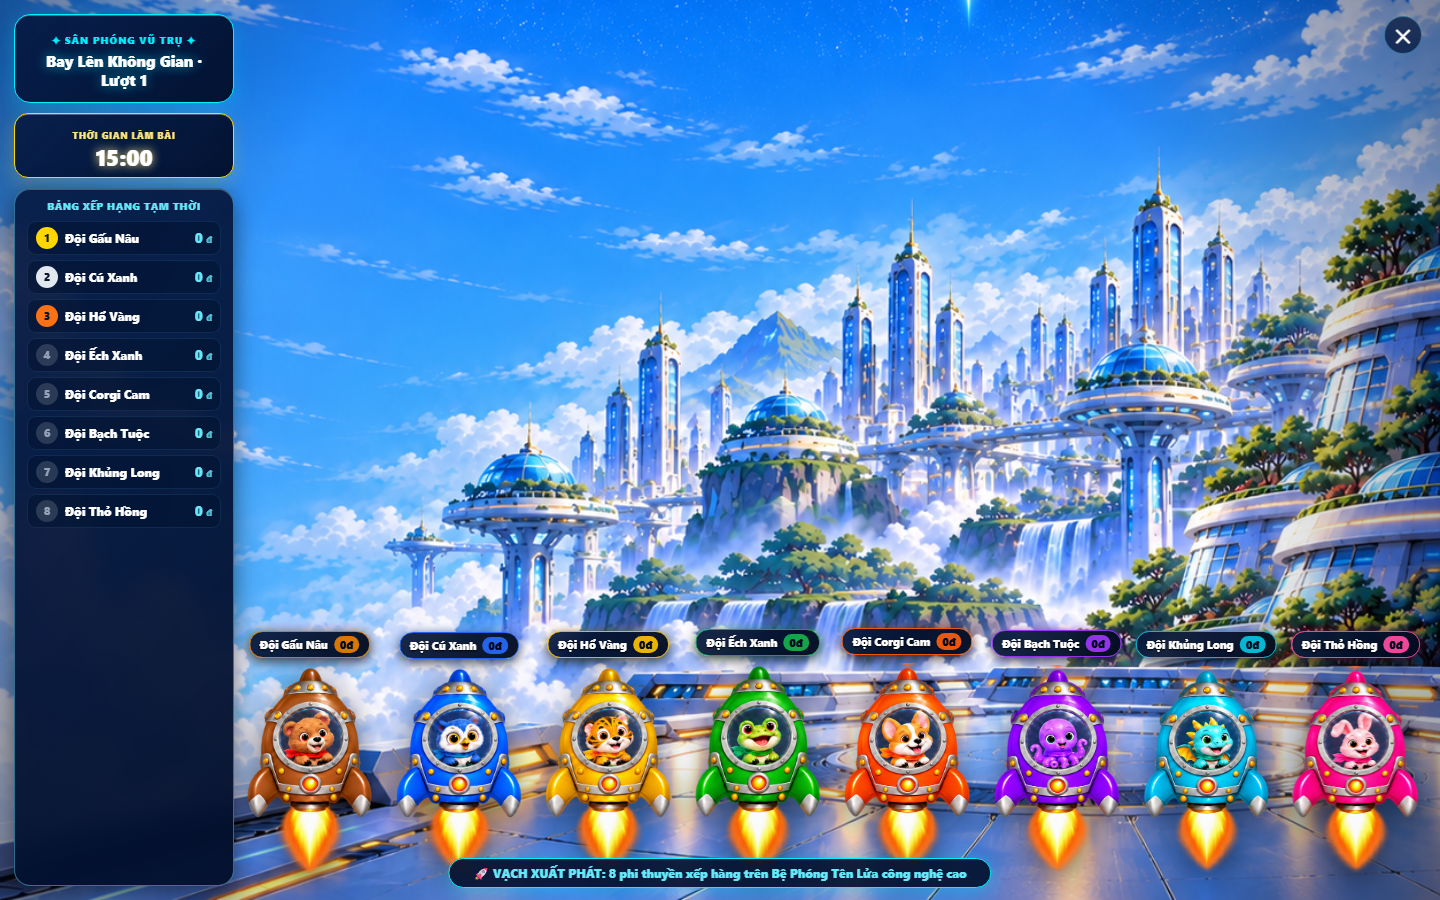
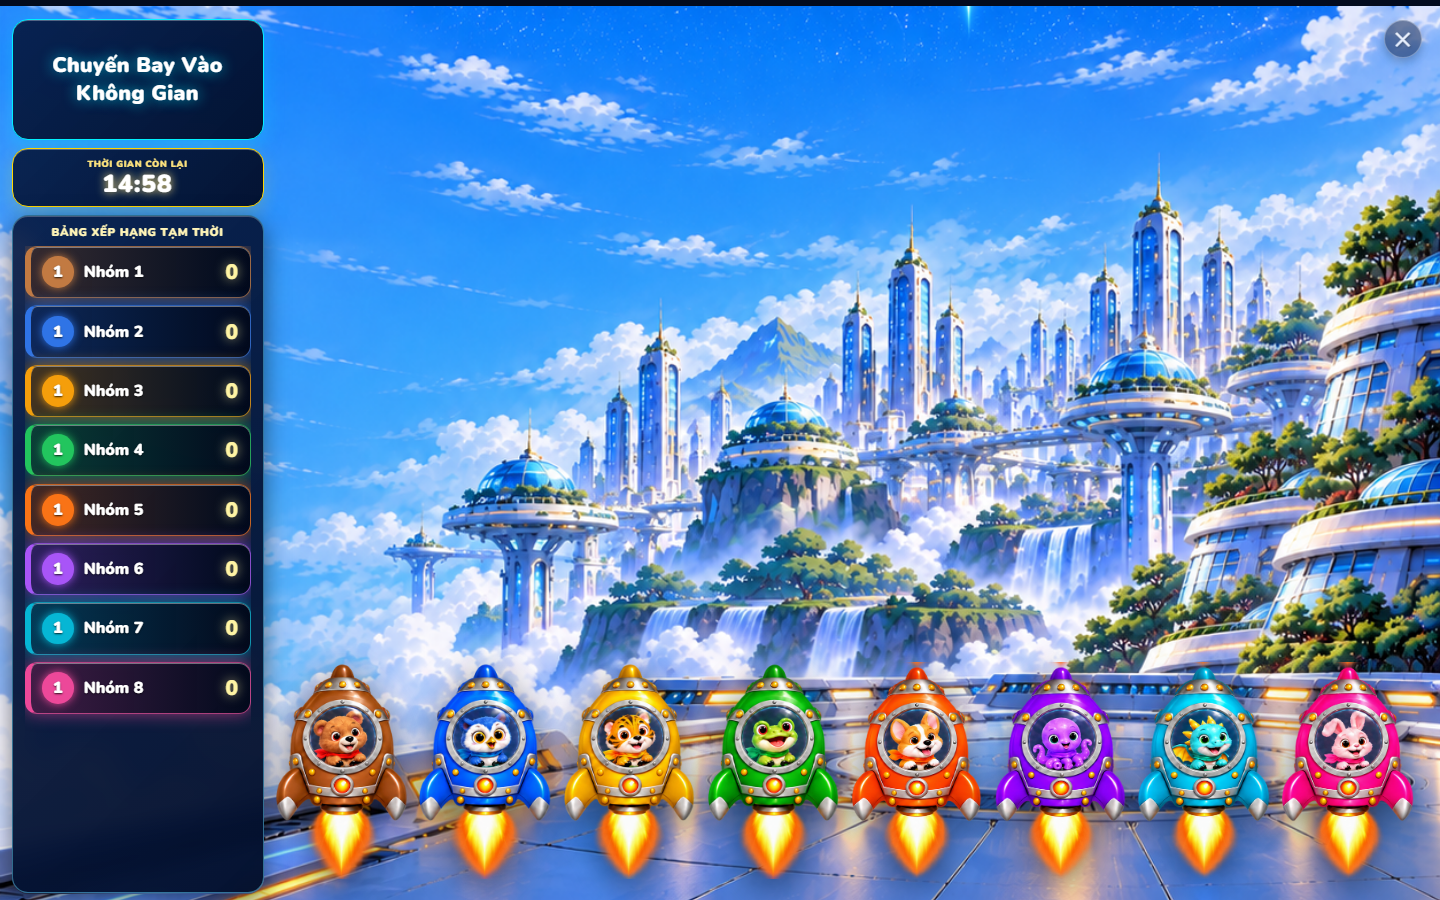
fix(team-competition): tinh chỉnh giao diện Bay Lên Không Gian (gấp đôi chiều cao khung tên & bảng tên, gán màu phi thuyền, bỏ phình to & bỏ ô tên đầu phi thuyền)

diff --git a/src/style.css b/src/style.css
@@ -7277,7 +7277,7 @@ input[type="text"], input[type="password"], select, textarea {
     top: clamp(10px, 1.4vh, 18px);
     bottom: clamp(10px, 1.4vh, 18px);
     left: clamp(8px, 0.8vw, 14px);
-    width: clamp(170px, 14.5vw, 225px);
+    width: clamp(210px, 17.5vw, 275px);
     z-index: 10;
     display: flex;
     flex-direction: column;
@@ -7307,13 +7307,13 @@ input[type="text"], input[type="password"], select, textarea {
     color: #fff;
 }
 
-/* HUD 1: Title Card with Neon Cyan Glow */
+/* HUD 1: Title Card with Neon Cyan Glow (Gấp đôi chiều cao) */
 #treasure-modal.team-board-fullscreen .team-competition-board--live .team-race-stadium--space-launch .team-stadium-title-card {
     display: flex;
     align-items: center;
     justify-content: center;
-    min-height: clamp(52px, 7vh, 68px);
-    padding: clamp(6px, 0.9vh, 10px) clamp(8px, 1vw, 14px);
+    min-height: clamp(104px, 13.5vh, 136px);
+    padding: clamp(10px, 1.4vh, 16px) clamp(10px, 1.1vw, 16px);
     border: 1.5px solid #00f0ff;
     box-shadow: 0 6px 20px rgba(0, 240, 255, 0.25), inset 0 1px 0 rgba(255, 255, 255, 0.3);
     text-align: center;
@@ -7321,11 +7321,11 @@ input[type="text"], input[type="password"], select, textarea {
 #treasure-modal.team-board-fullscreen .team-competition-board--live .team-race-stadium--space-launch .team-stadium-title-card h2 {
     margin: 0;
     color: #fff;
-    font-size: clamp(0.95rem, 1.25vw, 1.4rem);
+    font-size: clamp(1.1rem, 1.45vw, 1.6rem);
     font-weight: 900;
-    line-height: 1.25;
+    line-height: 1.35;
     text-align: center;
-    text-shadow: 0 0 12px rgba(0, 240, 255, 0.6);
+    text-shadow: 0 0 14px rgba(0, 240, 255, 0.7);
     letter-spacing: 0.02em;
     word-break: break-word;
 }
@@ -7358,7 +7358,7 @@ input[type="text"], input[type="password"], select, textarea {
     text-shadow: 0 0 10px #ffe57f;
 }
 
-/* HUD 3: Scoreboard */
+/* HUD 3: Scoreboard (Tăng chiều cao bảng tên lên gấp đôi & gán màu phi thuyền) */
 #treasure-modal.team-board-fullscreen .team-competition-board--live .team-race-stadium--space-launch .team-race-scoreboard {
     flex: 1;
     min-height: 0;
@@ -7371,7 +7371,7 @@ input[type="text"], input[type="password"], select, textarea {
 #treasure-modal.team-board-fullscreen .team-competition-board--live .team-race-stadium--space-launch .team-race-scoreboard p {
     margin: 0 0 clamp(4px, 0.7vh, 8px);
     color: #67e8f9;
-    font-size: clamp(0.55rem, 0.68vw, 0.75rem);
+    font-size: clamp(0.6rem, 0.72vw, 0.82rem);
     font-weight: 900;
     letter-spacing: 0.06em;
     text-align: center;
@@ -7385,61 +7385,64 @@ input[type="text"], input[type="password"], select, textarea {
     list-style: none;
     display: flex;
     flex-direction: column;
-    gap: clamp(3px, 0.5vh, 6px);
+    gap: clamp(6px, 0.8vh, 10px);
     overflow-y: auto;
 }
 #treasure-modal.team-board-fullscreen .team-competition-board--live .team-race-stadium--space-launch .team-race-scoreboard__entry {
     display: grid;
-    grid-template-columns: 22px 1fr auto;
+    grid-template-columns: clamp(28px, 2.2vw, 36px) 1fr auto;
     align-items: center;
-    gap: 7px;
-    padding: clamp(4px, 0.5vh, 7px) clamp(6px, 0.6vw, 10px);
-    border-radius: 9px;
-    background: rgba(2, 18, 48, 0.6);
-    border: 1px solid rgba(100, 200, 255, 0.15);
-    transition: background 0.3s ease, border-color 0.3s ease;
+    gap: 10px;
+    min-height: clamp(48px, 5.8vh, 60px);
+    padding: clamp(6px, 0.8vh, 10px) clamp(10px, 0.8vw, 14px);
+    border-radius: 12px;
+    background: linear-gradient(90deg, color-mix(in srgb, var(--rocket-color, #00f0ff) 26%, rgba(3, 14, 40, 0.95)), rgba(2, 8, 26, 0.92));
+    border: 1.5px solid color-mix(in srgb, var(--rocket-color, #00f0ff) 65%, rgba(255, 255, 255, 0.15));
+    border-left: 6px solid var(--rocket-color, #00f0ff);
+    box-shadow: 0 4px 14px rgba(0, 0, 0, 0.45), inset 0 1px 0 rgba(255, 255, 255, 0.25);
+    transition: all 0.3s ease;
 }
 #treasure-modal.team-board-fullscreen .team-competition-board--live .team-race-stadium--space-launch .team-race-scoreboard__entry[data-rank="1"] {
-    background: linear-gradient(90deg, rgba(255, 215, 0, 0.22), rgba(2, 16, 42, 0.7));
-    border-color: rgba(255, 215, 0, 0.55);
+    box-shadow: 0 0 16px color-mix(in srgb, var(--rocket-color, #ffd700) 60%, transparent), inset 0 1px rgba(255, 255, 255, 0.4);
 }
 #treasure-modal.team-board-fullscreen .team-competition-board--live .team-race-stadium--space-launch .team-race-scoreboard__entry span {
     display: grid;
     place-items: center;
-    width: 22px;
-    height: 22px;
+    width: clamp(28px, 2.2vw, 36px);
+    height: clamp(28px, 2.2vw, 36px);
     border-radius: 50%;
-    background: rgba(255, 255, 255, 0.15);
-    color: #94a3b8;
-    font-weight: 900;
-    font-size: 11px;
-}
-#treasure-modal.team-board-fullscreen .team-competition-board--live .team-race-stadium--space-launch .team-race-scoreboard__entry[data-rank="1"] span {
-    background: #ffd700;
-    color: #0f172a;
-    box-shadow: 0 0 8px rgba(255, 215, 0, 0.6);
-}
-#treasure-modal.team-board-fullscreen .team-competition-board--live .team-race-stadium--space-launch .team-race-scoreboard__entry[data-rank="2"] span {
-    background: #e2e8f0;
-    color: #0f172a;
-}
-#treasure-modal.team-board-fullscreen .team-competition-board--live .team-race-stadium--space-launch .team-race-scoreboard__entry[data-rank="3"] span {
-    background: #f97316;
+    background: var(--rocket-color, #00f0ff);
     color: #fff;
+    font-weight: 900;
+    font-size: clamp(13px, 1.1vw, 16px);
+    box-shadow: 0 0 10px var(--rocket-color, #00f0ff);
+    text-shadow: 0 1px 2px rgba(0, 0, 0, 0.8);
 }
 #treasure-modal.team-board-fullscreen .team-competition-board--live .team-race-stadium--space-launch .team-race-scoreboard__entry strong {
     color: #fff;
-    font-size: clamp(0.68rem, 0.8vw, 0.85rem);
-    font-weight: 800;
+    font-size: clamp(0.92rem, 1.1vw, 1.25rem);
+    font-weight: 850;
     overflow: hidden;
     white-space: nowrap;
     text-overflow: ellipsis;
+    text-shadow: 0 1px 2px rgba(0, 0, 0, 0.7);
 }
 #treasure-modal.team-board-fullscreen .team-competition-board--live .team-race-stadium--space-launch .team-race-scoreboard__entry b {
-    color: #67e8f9;
-    font-size: clamp(0.78rem, 0.95vw, 1.05rem);
+    color: #fff4a4;
+    font-size: clamp(1.15rem, 1.45vw, 1.6rem);
     font-weight: 900;
+    text-shadow: 0 0 12px rgba(255, 244, 164, 0.7);
 }
+
+/* Gán màu chuẩn xác cho 8 phi thuyền */
+#treasure-modal.team-board-fullscreen .team-race-stadium--space-launch .team-race-scoreboard__entry--rocket-1 { --rocket-color: #c27a42; }
+#treasure-modal.team-board-fullscreen .team-race-stadium--space-launch .team-race-scoreboard__entry--rocket-2 { --rocket-color: #2f74e6; }
+#treasure-modal.team-board-fullscreen .team-race-stadium--space-launch .team-race-scoreboard__entry--rocket-3 { --rocket-color: #f59e0b; }
+#treasure-modal.team-board-fullscreen .team-race-stadium--space-launch .team-race-scoreboard__entry--rocket-4 { --rocket-color: #22c55e; }
+#treasure-modal.team-board-fullscreen .team-race-stadium--space-launch .team-race-scoreboard__entry--rocket-5 { --rocket-color: #f97316; }
+#treasure-modal.team-board-fullscreen .team-race-stadium--space-launch .team-race-scoreboard__entry--rocket-6 { --rocket-color: #a855f7; }
+#treasure-modal.team-board-fullscreen .team-race-stadium--space-launch .team-race-scoreboard__entry--rocket-7 { --rocket-color: #06b6d4; }
+#treasure-modal.team-board-fullscreen .team-race-stadium--space-launch .team-race-scoreboard__entry--rocket-8 { --rocket-color: #ec4899; }
 
 /* Arena Canvas: Scrolling Background from Launch Pad to Space Citadel */
 #treasure-modal.team-board-fullscreen .team-competition-board--live .team-race-stadium--space-launch .team-stadium-canvas {
@@ -7462,7 +7465,7 @@ input[type="text"], input[type="password"], select, textarea {
     position: absolute;
     top: 0;
     bottom: 0;
-    left: clamp(185px, 15.5vw, 245px);
+    left: clamp(225px, 18.5vw, 295px);
     right: clamp(12px, 1.2vw, 24px);
     overflow: visible;
     z-index: 3;
@@ -7480,7 +7483,7 @@ input[type="text"], input[type="password"], select, textarea {
     --rocket-h: calc(var(--rocket-w) * 540 / 340);
 }
 
-/* Rocket Vehicle Sprite */
+/* Rocket Vehicle Sprite - Bỏ hoàn toàn hiệu ứng phình to */
 #treasure-modal.team-board-fullscreen .team-race-stadium--space-launch .team-stadium-lane__vehicle {
     position: absolute;
     z-index: 4;
@@ -7496,59 +7499,12 @@ input[type="text"], input[type="password"], select, textarea {
     object-fit: contain;
     filter: drop-shadow(0 10px 18px rgba(0, 0, 0, 0.55));
     transition: bottom 0.85s cubic-bezier(0.34, 1.56, 0.64, 1);
-    animation: rocket-flame-pulse 1.8s ease-in-out infinite alternate;
+    animation: none !important;
 }
 
-/* Floating Team Info Badge above Rocket */
+/* Bỏ ô tên nhóm và điểm trước đầu phi thuyền */
 #treasure-modal.team-board-fullscreen .team-race-stadium--space-launch .team-stadium-lane__info {
-    position: absolute;
-    top: auto;
-    left: 0;
-    bottom: calc(3% + var(--rocket-altitude, 0%) + var(--rocket-h) + 6px);
-    transform: translateX(-50%);
-    display: inline-flex;
-    align-items: center;
-    gap: 6px;
-    width: max-content;
-    max-width: min(180px, 85vw);
-    padding: clamp(3px, 0.4vw, 6px) clamp(8px, 0.8vw, 14px);
-    border: 1.5px solid color-mix(in srgb, var(--stadium-accent, #00f0ff) 80%, white);
-    border-radius: 999px;
-    background: linear-gradient(135deg, rgba(6, 24, 60, 0.92), rgba(2, 10, 30, 0.96));
-    box-shadow: 0 4px 14px rgba(0, 0, 0, 0.5), inset 0 1px 0 rgba(255, 255, 255, 0.35);
-    color: #fff;
-    white-space: nowrap;
-    transition: bottom 0.85s cubic-bezier(0.34, 1.56, 0.64, 1);
-    z-index: 5;
-    pointer-events: none;
-    backdrop-filter: blur(6px);
-}
-#treasure-modal.team-board-fullscreen .team-race-stadium--space-launch .team-stadium-lane__info strong {
-    font-size: clamp(0.66rem, 0.82vw, 0.94rem);
-    line-height: 1;
-    font-weight: 800;
-    overflow: hidden;
-    text-overflow: ellipsis;
-    white-space: nowrap;
-    max-width: clamp(75px, 8vw, 115px);
-    color: #fff;
-    text-shadow: 0 1px 2px rgba(0, 0, 0, 0.7);
-}
-#treasure-modal.team-board-fullscreen .team-race-stadium--space-launch .team-stadium-lane__info b {
-    display: inline-flex;
-    align-items: baseline;
-    gap: 2px;
-    font-size: clamp(0.76rem, 0.95vw, 1.1rem);
-    font-weight: 900;
-    color: #fff4a4;
-    line-height: 1;
-    text-shadow: 0 1px 2px rgba(0, 0, 0, 0.7);
-}
-#treasure-modal.team-board-fullscreen .team-race-stadium--space-launch .team-stadium-lane__info em {
-    font-size: 0.65em;
-    color: #67e8f9;
-    font-style: normal;
-    font-weight: 700;
+    display: none !important;
 }
 
 /* 10 Points Finish Badge: Reached Space Citadel */
@@ -7570,11 +7526,6 @@ input[type="text"], input[type="password"], select, textarea {
     white-space: nowrap;
     z-index: 6;
     animation: rocket-badge-glow 1.5s ease-in-out infinite alternate;
-}
-
-@keyframes rocket-flame-pulse {
-    0% { transform: translateX(-50%) scale(0.98); }
-    100% { transform: translateX(-50%) scale(1.02); }
 }
 
 @keyframes rocket-badge-glow {

diff --git a/src/main.js b/src/main.js
@@ -7722,8 +7722,9 @@ const app = {
                     const rocketFinishBadge = (isSpaceLaunch && score >= 10)
                         ? `<span class="team-rocket-finish-badge">⭐ ĐẾN TRẠM!</span>`
                         : '';
+                    const laneInfoHtml = isSpaceLaunch ? '' : `<div class="team-stadium-lane__info">${infoContent}</div>`;
 
-                    return `<article class="team-stadium-lane team-stadium-lane--${lane.color} team-stadium-lane--${teamStatusClass}" data-stadium-lane="${lane.number}" style="--race-progress:${Math.round(scoreProgress * 66)}%; --boat-progress:${boatProgress}%; --boat-lane-top:${boatLaneTop.toFixed(2)}%; --boat-width:${boatWidth}px; --lane-z:${10 + index}; --balloon-altitude:${Math.round(scoreProgress * 36)}%; --rocket-altitude:${Math.round(scoreProgress * 44)}%; --balloon-center-x:${balloonCenterPct.toFixed(2)}%; --rocket-center-x:${balloonCenterPct.toFixed(2)}%; --lane-left:${laneLeftPct.toFixed(2)}%; --lane-width:${laneWidthPct.toFixed(2)}%" aria-label="${ariaDesc}"><div class="team-stadium-lane__info">${infoContent}</div><img class="team-stadium-lane__vehicle" src="${vehicleAsset}" alt="${vehicleAlt}" loading="eager" decoding="async" />${rocketFinishBadge}</article>`;
+                    return `<article class="team-stadium-lane team-stadium-lane--${lane.color} team-stadium-lane--${teamStatusClass}" data-stadium-lane="${lane.number}" style="--race-progress:${Math.round(scoreProgress * 66)}%; --boat-progress:${boatProgress}%; --boat-lane-top:${boatLaneTop.toFixed(2)}%; --boat-width:${boatWidth}px; --lane-z:${10 + index}; --balloon-altitude:${Math.round(scoreProgress * 36)}%; --rocket-altitude:${Math.round(scoreProgress * 44)}%; --balloon-center-x:${balloonCenterPct.toFixed(2)}%; --rocket-center-x:${balloonCenterPct.toFixed(2)}%; --lane-left:${laneLeftPct.toFixed(2)}%; --lane-width:${laneWidthPct.toFixed(2)}%" aria-label="${ariaDesc}">${laneInfoHtml}<img class="team-stadium-lane__vehicle" src="${vehicleAsset}" alt="${vehicleAlt}" loading="eager" decoding="async" />${rocketFinishBadge}</article>`;
                 }
                 const leaderName = app.data.sanitizeHTML(usersByName.get(String(team.leaderUsername))?.fullname || team.leaderUsername || 'Chưa chọn');
                 const roster = !isLive && match.status !== app.teamCompetition.STATUS.ENDED
@@ -7749,7 +7750,20 @@ const app = {
                     ? ((app.teamCompetition.STADIUM_LANES && app.teamCompetition.STADIUM_LANES[index % app.teamCompetition.STADIUM_LANES.length]) || stadiumLanes[index] || null)
                     : (stadiumLanes[index] || null)
             ]));
-            const leaderboard = isLive ? `<aside class="team-race-scoreboard" aria-label="Bảng xếp hạng tạm thời"><p>Bảng xếp hạng tạm thời</p><ol>${rankedTeams.map(team => { const lane = stadiumLaneByTeamId.get(String(team.id)); const rank = app.teamCompetition.getTeamRank(match, team.id); return `<li class="team-race-scoreboard__entry ${lane ? `team-race-scoreboard__entry--${lane.color}` : ''}" data-rank="${rank}"><span>${rank}</span><strong>${app.data.sanitizeHTML(team.name)}</strong><b>${Number(team.score || 0).toLocaleString('vi-VN')}</b></li>`; }).join('')}</ol></aside>` : '';
+            const isSpaceLaunch = presentationTheme === 'space-launch';
+            const rocketThemeColors = ['#c27a42', '#2f74e6', '#f59e0b', '#22c55e', '#f97316', '#a855f7', '#06b6d4', '#ec4899'];
+            const leaderboard = isLive ? `<aside class="team-race-scoreboard" aria-label="Bảng xếp hạng tạm thời"><p>Bảng xếp hạng tạm thời</p><ol>${rankedTeams.map(team => {
+                const lane = stadiumLaneByTeamId.get(String(team.id));
+                const rank = app.teamCompetition.getTeamRank(match, team.id);
+                const origIndex = match.teams.findIndex(t => String(t.id) === String(team.id));
+                const rocketIndex = origIndex >= 0 ? origIndex % rocketThemeColors.length : 0;
+                const rocketColor = rocketThemeColors[rocketIndex];
+                const entryClass = isSpaceLaunch
+                    ? `team-race-scoreboard__entry--rocket-${rocketIndex + 1} ${lane ? `team-race-scoreboard__entry--${lane.color}` : ''}`
+                    : (lane ? `team-race-scoreboard__entry--${lane.color}` : '');
+                const entryStyle = isSpaceLaunch ? `style="--rocket-color:${rocketColor};"` : '';
+                return `<li class="team-race-scoreboard__entry ${entryClass}" ${entryStyle} data-rank="${rank}"><span>${rank}</span><strong>${app.data.sanitizeHTML(team.name)}</strong><b>${Number(team.score || 0).toLocaleString('vi-VN')}</b></li>`;
+            }).join('')}</ol></aside>` : '';
             const liveTimer = isLive && match.timeLimitMinutes !== null && match.startedAt ? Math.max(0, Number(match.timeLimitMinutes) * 60 - Math.floor((Date.now() - Number(match.startedAt)) / 1000)) : null;
             const timerLabel = liveTimer === null ? 'Không giới hạn' : `${String(Math.floor(liveTimer / 60)).padStart(2, '0')}:${String(liveTimer % 60).padStart(2, '0')}`;
             const titleCard = `<div class="team-stadium-title-card"><h2>${app.data.sanitizeHTML(match.name || 'Trận thi đua')}</h2></div>`;
